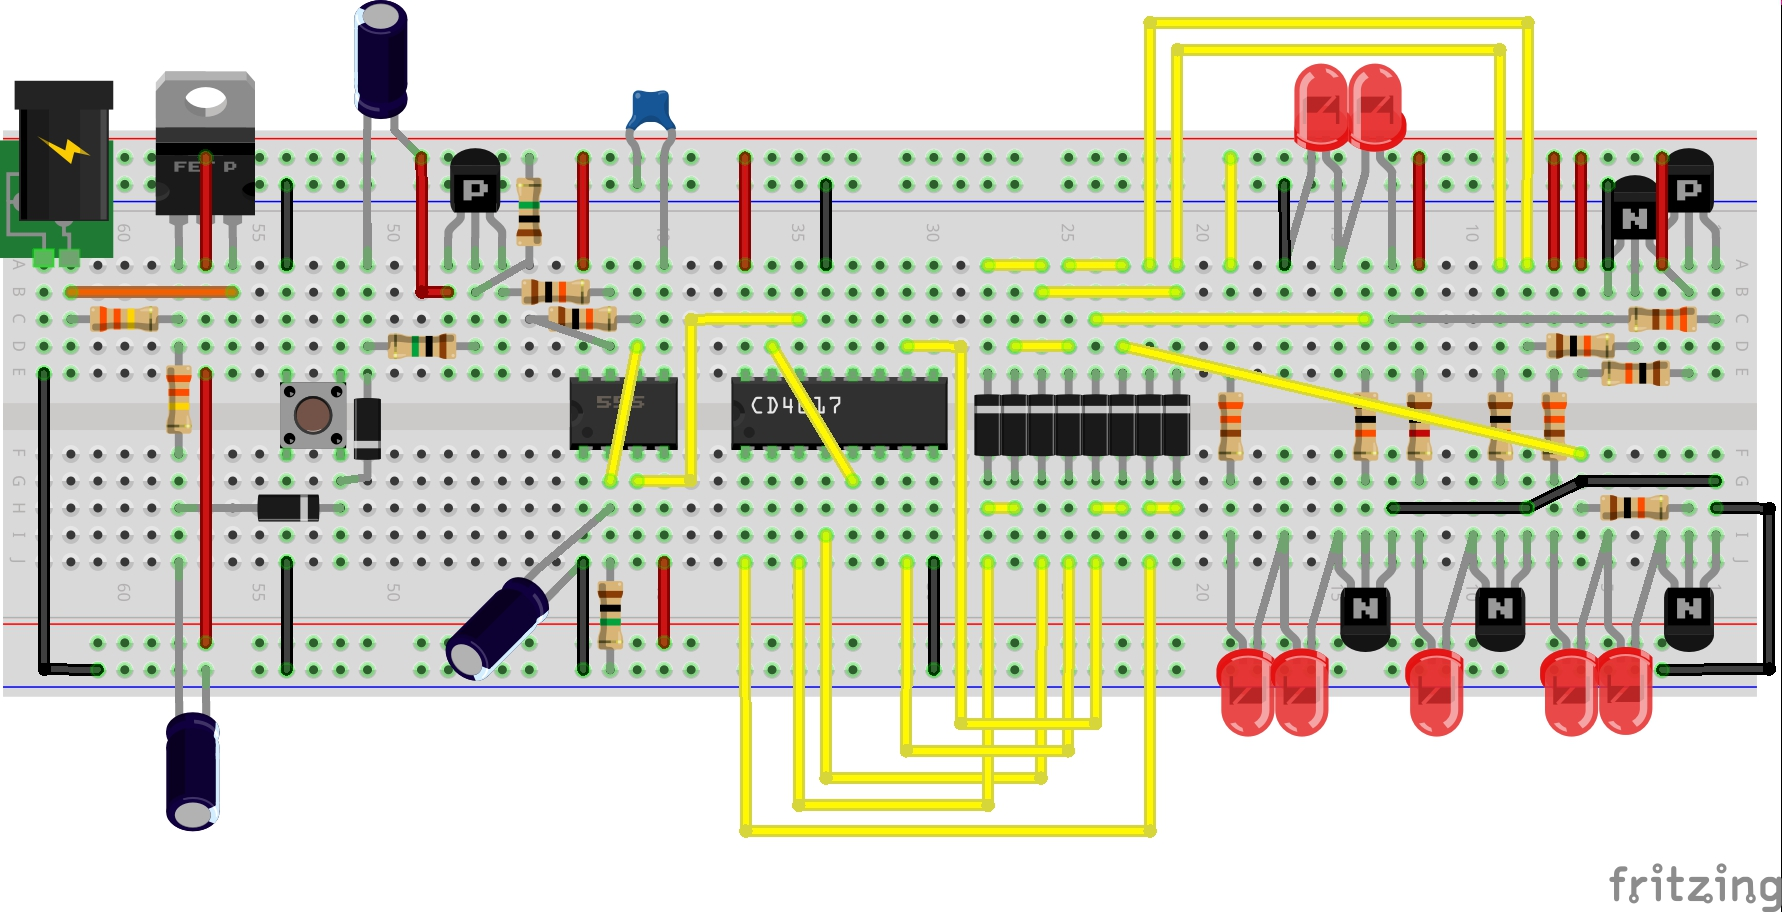
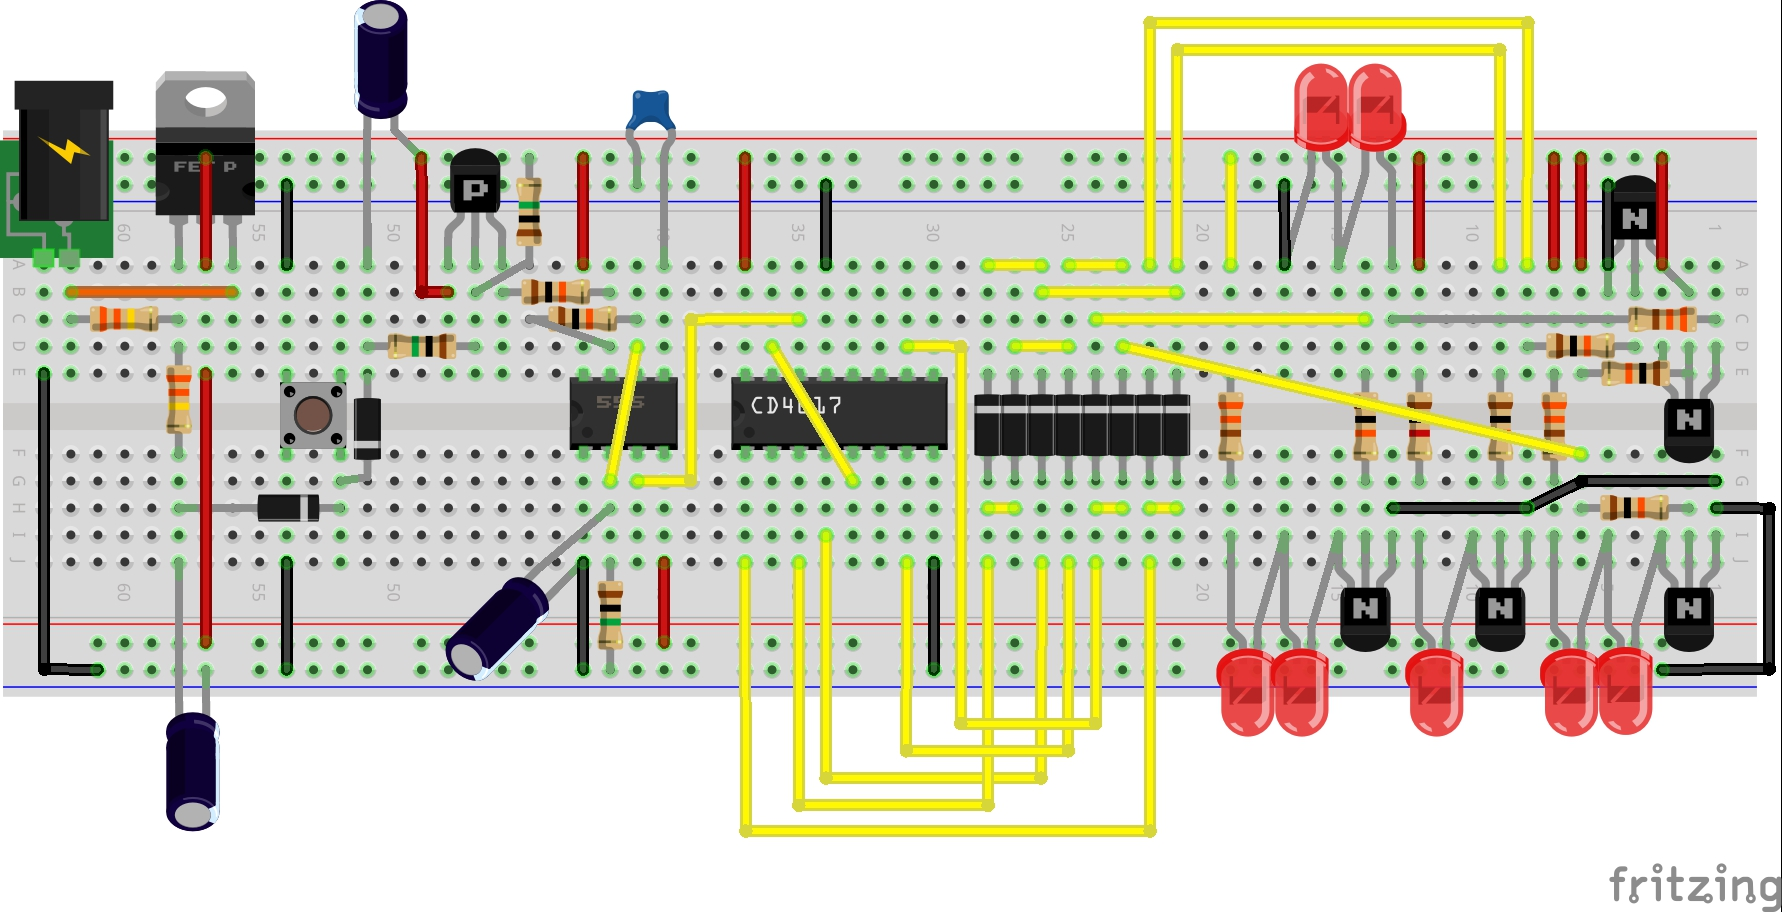
[555Timer/Dice] update schematic

Changed region(s): [[0.9259, 0.3684, 0.9877, 0.5219], [0.9259, 0.1535, 0.9877, 0.2763]]

diff --git a/Electronics101/555Timer/Dice/README.md b/Electronics101/555Timer/Dice/README.md
@@ -80,7 +80,7 @@ Steering diodes are used to control the transistors according to this table:
 | BJT      | LED1 | LED2 | LED3 | LED4 | LED5 | LED6 | LED7 | On for Qhi          |
 |----------|------|------|------|------|------|------|------|---------------------|
 | N1 (NPN) | X    |      |      |      |      |      | X    | Q0, Q3, Q4          |
-| P1 (PNP) |      | -X   |      |      |      | -X   |      | not Q5 (inverted PNP logic) |
+| N4 (NPN) |      | -X   |      |      |      | -X   |      | not Q5 (inverted logic) |
 | N2 (NPN) |      |      | X    |      | X    |      |      | Q4                  |
 | N3 (NPN) |      |      |      | X    |      |      |      | Q0, Q2, Q5          |
 
@@ -118,7 +118,7 @@ The outputs from the 4017 decade counter are decoded thus:
 Component values:
 
 * diodes are all 1N4148 but this is not critical, normal 1N400x rectifiers work fine
-* NPN and PNP are all small signal 2N3904/2N3906. Not critical.
+* NPN and PNP BJTs are all small signal 2N3904/2N3906. Not critical.
 * The p-channel MOSFET is a low-power BS250. Another part may require tweaking the power control RC values.
 
 The die roll timing can be modified as follows:
